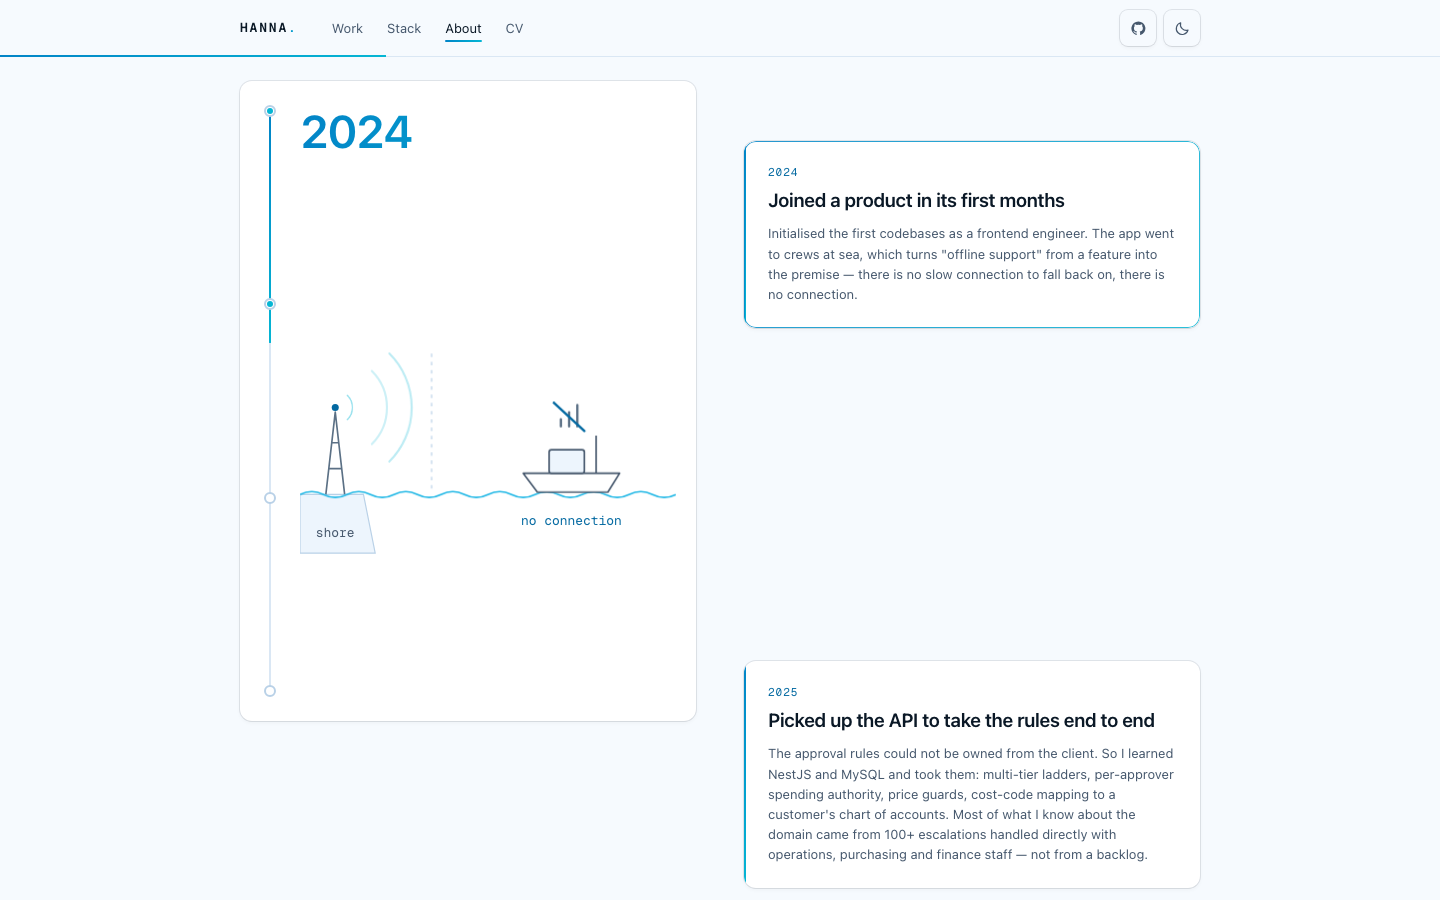
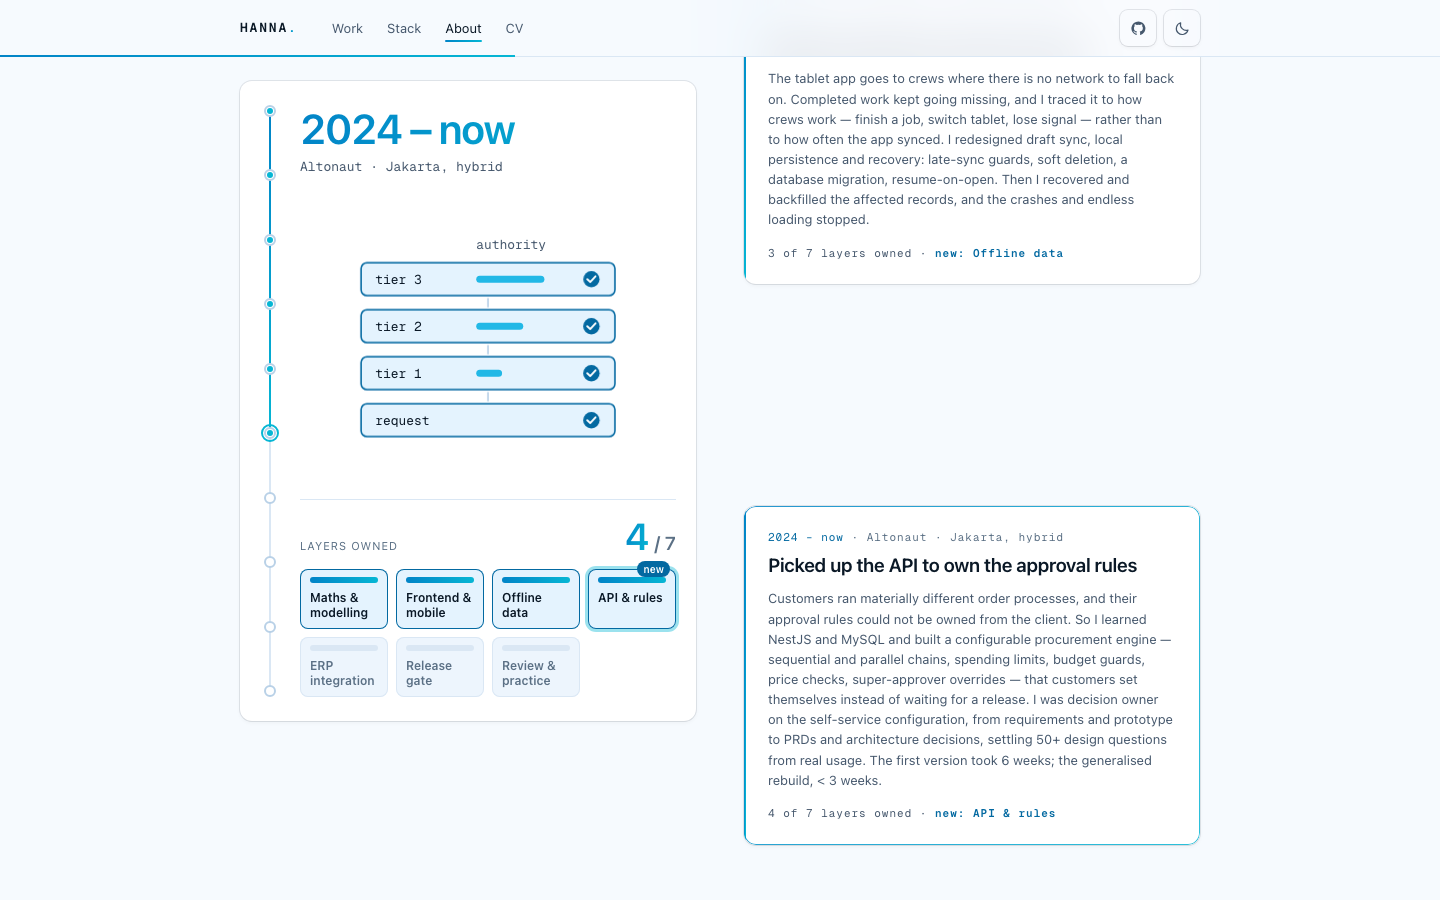
docs(screenshots): retake for the scroll stories

diff --git a/docs/screenshots/README.md b/docs/screenshots/README.md
@@ -1,25 +1,24 @@
 # Screenshots
 
-> **Being retaken.** The surfaces marked _outdated_ below changed after these were taken and no longer match shipped code; those marked _needs a take_ have none yet. The files stay until the new set replaces them.
+Sixteen highlights, committed so a pull request can link them. Taken from a production build (`next build && next start`) with Playwright Chromium at 1440×900 (desktop) and 390×844 (phone), device scale factor 1, each scrolled by mouse wheel to the frame shown, because the CSS scroll timelines only paint after real input. They are evidence of layout, not of pixel density.
 
-Thirteen highlights, committed so a pull request can link them. Taken at device scale factor 1 — they are evidence of layout, not of pixel density. Each is from a production build, scrolled by mouse wheel to the frame shown, because the CSS scroll timelines only paint after real input.
-
-| File                               | What it shows                                                                                                   |
-| ---------------------------------- | --------------------------------------------------------------------------------------------------------------- |
-| `home-dark-desktop.png`            | _Outdated._ The page at load: the name over the pool, before the opening scene moves, dark theme                |
-| `home-light-mobile.png`            | _Outdated._ The same opening on a phone, light theme — one `h1` across both layouts                             |
-| `hero-intro-dark-desktop.png`      | _Outdated._ The opening scene resolved: the report struck through, what it was beneath it                       |
-| `hero-intro-light-mobile.png`      | _Outdated._ The same resolved scene on a phone, light theme                                                     |
-| `home-story-dark-desktop.png`      | _Outdated._ Selected work as one scroll story: the report and a drawing of the mechanism pinned beside its step |
-| `home-story-light-mobile.png`      | _Outdated._ The same story on a phone: a card per study, its drawing drawn in, and its Try it                   |
-| `about-timeline-light-desktop.png` | _Outdated._ The about arc as a timeline: period marker, spine and the era's scene pinned beside its step        |
-| `work-dark-desktop.png`            | _Outdated._ The case study index, each card led by the reported quote                                           |
-| `case-study-light-desktop.png`     | A case study mid-read: the part rail marks where the reader is, beside the staged diagram                       |
-| `draft-sync-light-desktop.png`     | The offline sync simulator at its end, without ownership: the stale draft lands and the record reverts          |
-| `tax-ladder-dark-desktop.png`      | The tax ladder playground fully printed: both receipts, the gap, and the two rates to move                      |
-| `gate-run-light-desktop.png`       | The release gate run at its last beat: quarantined debt named, matrix checked, release certified                |
-| `contagion-model-dark-desktop.png` | The published contagion model, running its guided walk                                                          |
-| _not yet taken_                    | _Needs a take._ `/stack`: the isometric stack, each slab with its name, symbol and item tiles                   |
-| _not yet taken_                    | _Needs a take._ The approval case study: one requisition through both customers' ladders, both engines          |
+| File                               | What it shows                                                                                                    |
+| ---------------------------------- | ---------------------------------------------------------------------------------------------------------------- |
+| `home-dark-desktop.png`            | The opening scene mid-way: the name over the field, the report struck through, what it was being written beneath |
+| `home-light-mobile.png`            | The same opening on a phone, light theme, resolved: the report struck and what it actually was                   |
+| `home-story-dark-desktop.png`      | Selected work as one scroll story: the second study's report and its drawing pinned beside its step              |
+| `home-story-light-mobile.png`      | The same story on a phone: a card per study, its drawing drawn in, and its Try it                                |
+| `work-dark-desktop.png`            | The case study index, each card led by the reported quote                                                        |
+| `draft-sync-light-desktop.png`     | The offline sync simulator pinned at its end, without ownership: the stale draft lands and the record reverts    |
+| `draft-sync-light-mobile.png`      | The same simulator in flow on a phone, its run played to the revert, the policy toggle and Replay on screen      |
+| `tax-ladder-dark-desktop.png`      | The tax ladder playground fully printed: both receipts, the gap over one ladder, and the two rates to move       |
+| `gate-run-light-desktop.png`       | The release gate run at its last beat: quarantined debt named, permission matrix checked, release certified      |
+| `approval-engine-dark-desktop.png` | The approval engine on the hard-coded approver: right for one customer, wrong for the other, with who is skipped |
+| `about-timeline-light-desktop.png` | The about arc pinned: period marker, spine, the era's scene and the layers owned at 4 of 7                       |
+| `about-timeline-dark-mobile.png`   | The about arc on a phone: an era card with its scene, its layers strip and the next era coming in                |
+| `contagion-model-dark-desktop.png` | The published contagion model as an element: the running field, its counts and its controls                      |
+| `stack-dark-desktop.png`           | `/stack` pinned on "Offline-first and on-device": the group's scene beside its card of tools                     |
+| `stack-light-mobile.png`           | `/stack` on a phone: the Domain card with its scene and the start of its sub-lists                               |
+| `mobile-menu-light-mobile.png`     | The mobile menu open over `/work`: the routes, the current one marked, and the theme switch                      |
 
 The full set — every route, both themes, both breakpoints — is regenerated from live code into `../private/screens/`, which is git-ignored. A screenshot that does not match shipped code is worse than none, because it gets reviewed.
